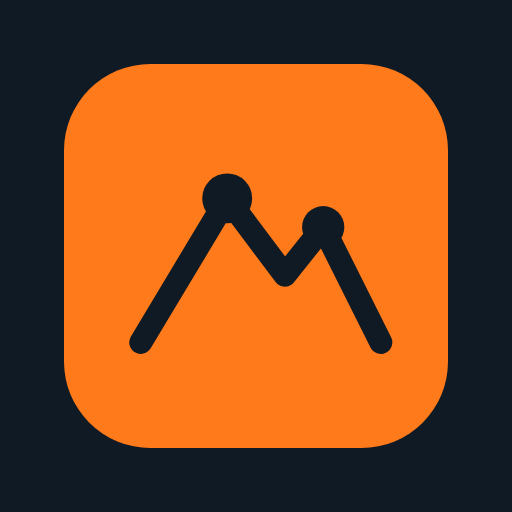
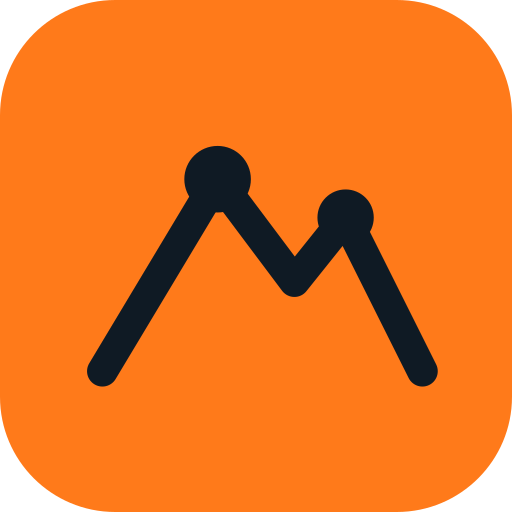
v1.18.0: installable app for CRM and client portal (PWA)
Service worker, offline page, separate portal manifest and icons, maskable icons,
install button in account menu and sign-in pages, iOS Add to Home Screen steps.

Claude-Session: https://claude.ai/code/session_01Hb8aoWgV6dSUUSUCYnNpoE

diff --git a/public/assets/app.js b/public/assets/app.js
@@ -222,3 +222,45 @@ document.querySelectorAll('input[type=file][data-count]').forEach(inp => inp.add
   const msg = inp.closest('form').querySelector('.upmsg');
   if (msg) msg.textContent = inp.files.length ? `${inp.files.length} file${inp.files.length > 1 ? 's' : ''} ready to send` : '';
 }));
+
+// v1.18 installable app: service worker + "Install app" button (Android/Chrome/Edge prompt, iPhone/iPad instructions)
+(() => {
+  if ('serviceWorker' in navigator && (location.protocol === 'https:' || location.hostname === 'localhost' || location.hostname === '127.0.0.1')) {
+    addEventListener('load', () => navigator.serviceWorker.register('/sw.js').catch(() => {}));
+  }
+  const standalone = matchMedia('(display-mode: standalone)').matches || navigator.standalone === true;
+  if (standalone) return; // already running as an installed app
+  const btns = [...document.querySelectorAll('[data-install]')];
+  if (!btns.length) return;
+  const show = () => btns.forEach(b => { b.hidden = false; b.closest('[data-install-wrap]')?.removeAttribute('hidden'); });
+  const ua = navigator.userAgent;
+  const ios = /iPhone|iPad|iPod/.test(ua) || (navigator.platform === 'MacIntel' && navigator.maxTouchPoints > 1);
+  let deferred = null;
+
+  addEventListener('beforeinstallprompt', e => { e.preventDefault(); deferred = e; show(); });
+  addEventListener('appinstalled', () => { deferred = null; btns.forEach(b => { b.hidden = true; b.closest('[data-install-wrap]')?.setAttribute('hidden', ''); }); });
+  if (ios) show();
+
+  const iosHelp = () => {
+    let d = document.getElementById('tl-install-help');
+    if (!d) {
+      d = document.createElement('dialog');
+      d.id = 'tl-install-help'; d.className = 'installdlg';
+      
+      d.innerHTML = `<h3>Add to your Home Screen</h3>
+        <ol><li>Tap the <b>Share</b> button <span aria-hidden="true" class="shareico">⬆</span> (bottom of the screen on iPhone, top right on iPad).</li>
+        <li>Scroll down and tap <b>Add to Home Screen</b>.</li><li>Tap <b>Add</b>. The app opens full screen from its new icon.</li></ol>
+        <p class="muted">Works in Safari. In Chrome on iPhone, the Share button is in the address bar.</p>
+        <form method="dialog"><button class="btn primary">Got it</button></form>`;
+      document.body.appendChild(d);
+    }
+    d.showModal ? d.showModal() : alert('Tap the Share button, then "Add to Home Screen".');
+  };
+
+  btns.forEach(b => b.addEventListener('click', async () => {
+    b.closest('details')?.removeAttribute('open');
+    if (deferred) { deferred.prompt(); await deferred.userChoice.catch(() => {}); deferred = null; return; }
+    if (ios) return iosHelp();
+    alert('Open your browser menu and choose "Install app" or "Add to Home screen".');
+  }));
+})();

diff --git a/public/sw.js b/public/sw.js
@@ -1,0 +1,35 @@
+// TerraLink CRM / client portal service worker.
+// Makes the app installable and keeps static files (CSS, JS, icons, fonts) on the device.
+// Pages and data are NEVER cached: they always come live from the server, so nothing
+// private is left on a shared tablet and nobody sees stale tickets or invoices.
+const CACHE = 'tl-static-1.18.0';
+const OFFLINE = '/offline.html';
+
+self.addEventListener('install', e => {
+  e.waitUntil(caches.open(CACHE).then(c => c.addAll([OFFLINE, '/assets/favicon.svg', '/assets/portal-favicon.svg'])).then(() => self.skipWaiting()));
+});
+
+self.addEventListener('activate', e => {
+  e.waitUntil(caches.keys().then(keys => Promise.all(keys.filter(k => k.startsWith('tl-') && k !== CACHE).map(k => caches.delete(k)))).then(() => self.clients.claim()));
+});
+
+self.addEventListener('fetch', e => {
+  const req = e.request;
+  const url = new URL(req.url);
+  if (url.origin !== location.origin) return;
+
+  // Page loads (incl. form posts): always the network; show the offline page if there's no signal.
+  if (req.mode === 'navigate') {
+    e.respondWith(fetch(req).catch(() => caches.match(OFFLINE)));
+    return;
+  }
+
+  // Versioned static files: cache first, then network (?v= changes on every release).
+  if (req.method === 'GET' && url.pathname.startsWith('/assets/')) {
+    e.respondWith(caches.open(CACHE).then(c => c.match(req).then(hit => hit || fetch(req).then(res => {
+      if (res.ok && res.type === 'basic') c.put(req, res.clone());
+      return res;
+    }))));
+  }
+  // Everything else (files, photos, PDFs, API): straight to the network, untouched.
+});

diff --git a/public/offline.html b/public/offline.html
@@ -1,0 +1,27 @@
+<!doctype html>
+<html lang="en">
+<head>
+<meta charset="utf-8"><meta name="viewport" content="width=device-width, initial-scale=1, viewport-fit=cover"><meta name="theme-color" content="#0F1A24"><meta name="robots" content="noindex">
+<title>No connection · TerraLink</title>
+<style>
+  html,body{margin:0;height:100%;background:#0F1A24;color:#E8EDF2;font:16px/1.5 system-ui,-apple-system,"Segoe UI",Roboto,sans-serif}
+  main{min-height:100%;display:flex;flex-direction:column;align-items:center;justify-content:center;text-align:center;padding:32px 24px calc(32px + env(safe-area-inset-bottom));box-sizing:border-box}
+  img{width:64px;height:64px;margin-bottom:20px}
+  h1{font-size:22px;margin:0 0 8px}
+  p{max-width:360px;margin:0 0 8px;color:#B6C2CE}
+  .b{display:flex;gap:10px;margin-top:20px;flex-wrap:wrap;justify-content:center}
+  button{font:inherit;font-weight:600;border:0;border-radius:10px;padding:12px 22px;cursor:pointer}
+  .go{background:#FF7A1A;color:#0F1A24}.bk{background:#22313F;color:#E8EDF2}
+</style>
+</head>
+<body>
+<main>
+  <img src="/assets/favicon.svg" alt="">
+  <h1>No connection right now</h1>
+  <p>TerraLink needs signal to load this page.</p>
+  <p>If you were saving something, tap <b>Go back</b>. What you typed is usually still there, so you can save it again once you have signal.</p>
+  <div class="b"><button class="bk" type="button" onclick="history.back()">Go back</button><button class="go" type="button" onclick="location.reload()">Try again</button></div>
+</main>
+<script>addEventListener('online', () => location.reload());</script>
+</body>
+</html>

diff --git a/public/assets/app.css b/public/assets/app.css
@@ -354,3 +354,14 @@ table.t{width:100%;border-collapse:collapse;font-size:14px}
 .warr-ok{color:var(--ok)} .warr-soon{color:var(--warn);font-weight:600} .warr-out{color:var(--muted)}
 .pay{white-space:pre-wrap}
 .sidenav em.cw{background:#3D8BFD;color:#fff}
+/* v1.18 installable app */
+[data-install][hidden],[data-install-wrap][hidden]{display:none!important}
+.install-hint{margin:18px 0 0;text-align:center}
+.install-hint .linkbtn{color:var(--ink);font-weight:600;text-decoration:underline;text-underline-offset:3px}
+.install-hint .linkbtn:hover{color:var(--orange)}
+.installdlg{border:0;border-radius:var(--r);background:var(--surface);color:var(--ink);max-width:380px;padding:22px;box-shadow:0 12px 40px rgba(0,0,0,.35)}
+.installdlg::backdrop{background:rgba(15,26,36,.6)}
+.installdlg h3{margin:0 0 10px}
+.installdlg ol{padding-left:20px;margin:0 0 10px}.installdlg li{margin:6px 0}
+.installdlg form{margin:14px 0 0;text-align:right}
+.installdlg .shareico{display:inline-block;border:1.5px solid currentColor;border-radius:4px;padding:0 4px;font-size:12px}

diff --git a/views/portal/_authshell.php b/views/portal/_authshell.php
@@ -2,10 +2,10 @@
 <!doctype html>
 <html lang="en">
 <head>
-<meta charset="utf-8"><meta name="viewport" content="width=device-width, initial-scale=1"><meta name="theme-color" content="#0F1A24"><meta name="robots" content="noindex">
+<meta charset="utf-8"><meta name="viewport" content="width=device-width, initial-scale=1"><meta name="theme-color" content="#0F1A24"><meta name="robots" content="noindex"><meta name="apple-mobile-web-app-capable" content="yes"><meta name="mobile-web-app-capable" content="yes"><meta name="apple-mobile-web-app-status-bar-style" content="black"><meta name="apple-mobile-web-app-title" content="TL Portal">
 <title><?= h($title ?? 'Sign in') ?> · <?= h(setting('company_name', 'TerraLink Systems')) ?> client portal</title>
 <script>try{var t=localStorage.getItem('tl-theme')||'auto';if(t==='dark'||(t==='auto'&&matchMedia('(prefers-color-scheme: dark)').matches))document.documentElement.dataset.theme='dark'}catch(e){}</script>
-<link rel="icon" href="/assets/favicon.svg" type="image/svg+xml"><link rel="apple-touch-icon" href="/assets/apple-touch-icon.png">
+<link rel="icon" href="/assets/portal-favicon.svg" type="image/svg+xml"><link rel="apple-touch-icon" href="/assets/portal-apple-touch-icon.png"><link rel="manifest" href="/portal.webmanifest">
 <link rel="stylesheet" href="/assets/fonts.css?v=<?= APP_VERSION ?>"><link rel="stylesheet" href="/assets/app.css?v=<?= APP_VERSION ?>">
 </head>
 <body>
@@ -15,7 +15,10 @@
     <div><h2>Your IT, <em>in one place</em>.</h2><p>Open and follow support tickets, check your equipment and service visits, and see quotes and invoices, whenever it suits you.</p></div>
     <div class="ft">Need help now? <?= h(setting('company_phone', '778-648-2400')) ?> · <?= h(setting('company_email', 'info@terralinksystems.com')) ?></div>
   </aside>
-  <main class="formside"><div class="box"><?= $inner ?></div></main>
+  <main class="formside"><div class="box"><?= $inner ?>
+  <p class="install-hint" data-install-wrap hidden><button type="button" class="linkbtn" data-install>Install this app on your phone or tablet</button></p>
+  </div></main>
 </div>
+<script src="/assets/app.js?v=<?= APP_VERSION ?>" defer></script>
 </body>
 </html>

diff --git a/views/portal/layout.php b/views/portal/layout.php
@@ -14,11 +14,14 @@ $coName = setting('company_name', 'TerraLink Systems');
 <meta name="viewport" content="width=device-width, initial-scale=1, viewport-fit=cover">
 <meta name="theme-color" content="#0F1A24">
 <meta name="robots" content="noindex">
+<meta name="apple-mobile-web-app-capable" content="yes"><meta name="mobile-web-app-capable" content="yes"><meta name="apple-mobile-web-app-status-bar-style" content="black">
+<meta name="apple-mobile-web-app-title" content="TL Portal">
 <meta name="csrf" content="<?= h(csrf_token()) ?>">
 <title><?= h($title ?? 'Client portal') ?> · <?= h($coName) ?> client portal</title>
 <script>try{var t=localStorage.getItem('tl-theme')||'auto';if(t==='dark'||(t==='auto'&&matchMedia('(prefers-color-scheme: dark)').matches))document.documentElement.dataset.theme='dark'}catch(e){}</script>
-<link rel="icon" href="/assets/favicon.svg" type="image/svg+xml">
-<link rel="apple-touch-icon" href="/assets/apple-touch-icon.png">
+<link rel="icon" href="/assets/portal-favicon.svg" type="image/svg+xml">
+<link rel="apple-touch-icon" href="/assets/portal-apple-touch-icon.png">
+<link rel="manifest" href="/portal.webmanifest">
 <link rel="stylesheet" href="/assets/fonts.css?v=<?= APP_VERSION ?>">
 <link rel="stylesheet" href="/assets/app.css?v=<?= APP_VERSION ?>">
 </head>
@@ -32,6 +35,7 @@ $coName = setting('company_name', 'TerraLink Systems');
       <div class="who"><b><?= h($pu['name']) ?></b><small><?= h($pu['company']) ?></small></div>
       <a href="/account">My account</a>
       <?php if (portal_can('is_admin')): ?><a href="/users">Portal users</a><?php endif; ?>
+      <button type="button" data-install hidden>Install app on this device</button>
       <div class="themepick" role="group" aria-label="Theme"><button type="button" data-theme-set="light">Light</button><button type="button" data-theme-set="auto">Auto</button><button type="button" data-theme-set="dark">Dark</button></div>
       <form method="post" action="/logout"><?= csrf_field() ?><button type="submit">Sign out</button></form>
     </div>

diff --git a/views/layout.php b/views/layout.php
@@ -17,7 +17,7 @@ $icon = fn(string $n) => '<svg class="i" aria-hidden="true"><use href="/assets/i
 <meta name="viewport" content="width=device-width, initial-scale=1, viewport-fit=cover">
 <meta name="theme-color" content="#0F1A24">
 <meta name="csrf" content="<?= h(csrf_token()) ?>">
-<meta name="apple-mobile-web-app-capable" content="yes">
+<meta name="apple-mobile-web-app-capable" content="yes"><meta name="mobile-web-app-capable" content="yes"><meta name="apple-mobile-web-app-status-bar-style" content="black">
 <meta name="apple-mobile-web-app-title" content="TerraLink">
 <title><?= h($title ?? 'CRM') ?> · TerraLink CRM</title>
 <script>try{var t=localStorage.getItem('tl-theme')||'auto';if(t==='dark'||(t==='auto'&&matchMedia('(prefers-color-scheme: dark)').matches))document.documentElement.dataset.theme='dark'}catch(e){}</script>
@@ -40,6 +40,7 @@ $icon = fn(string $n) => '<svg class="i" aria-hidden="true"><use href="/assets/i
       <a href="/account">My account</a>
       <a href="/account/2fa">Two-step sign-in</a>
       <?php if (is_role('admin')): $errN = (int)val('SELECT COUNT(*) FROM app_errors WHERE last_at > NOW() - INTERVAL 7 DAY'); ?><a href="/users">Users</a><a href="/settings">Settings</a><a href="/errors">Error log<?= $errN ? ' (' . $errN . ')' : '' ?></a><?php if (function_exists('h_data')): ?><a href="/data">Import &amp; export</a><?php endif; ?><?php endif; ?>
+      <button type="button" data-install hidden>Install app on this device</button>
       <div class="themepick" role="group" aria-label="Theme"><button type="button" data-theme-set="light">Light</button><button type="button" data-theme-set="auto">Auto</button><button type="button" data-theme-set="dark">Dark</button></div>
       <form method="post" action="/logout"><?= csrf_field() ?><button type="submit">Sign out</button></form>
     </div>

diff --git a/views/_authshell.php b/views/_authshell.php
@@ -2,7 +2,7 @@
 <!doctype html>
 <html lang="en">
 <head>
-<meta charset="utf-8"><meta name="viewport" content="width=device-width, initial-scale=1"><meta name="theme-color" content="#0F1A24"><meta name="robots" content="noindex">
+<meta charset="utf-8"><meta name="viewport" content="width=device-width, initial-scale=1"><meta name="theme-color" content="#0F1A24"><meta name="robots" content="noindex"><meta name="apple-mobile-web-app-capable" content="yes"><meta name="mobile-web-app-capable" content="yes"><meta name="apple-mobile-web-app-status-bar-style" content="black"><meta name="apple-mobile-web-app-title" content="TerraLink">
 <title><?= h($title ?? 'Sign in') ?> · TerraLink CRM</title>
 <script>try{var t=localStorage.getItem('tl-theme')||'auto';if(t==='dark'||(t==='auto'&&matchMedia('(prefers-color-scheme: dark)').matches))document.documentElement.dataset.theme='dark'}catch(e){}</script>
 <link rel="icon" href="/assets/favicon.svg" type="image/svg+xml"><link rel="apple-touch-icon" href="/assets/apple-touch-icon.png"><link rel="manifest" href="/manifest.webmanifest">
@@ -15,7 +15,10 @@
     <div><h2>Every client, site and <em>serial number</em> in one place.</h2><p>Leads from the website, installed gear in the bush, tickets and quotes. Built for Northern BC.</p></div>
     <div class="ft">Houston, BC · <?= h(setting('company_phone', '778-648-2400')) ?></div>
   </aside>
-  <main class="formside"><div class="box"><?= $inner ?></div></main>
+  <main class="formside"><div class="box"><?= $inner ?>
+  <p class="install-hint" data-install-wrap hidden><button type="button" class="linkbtn" data-install>Install this app on your phone or tablet</button></p>
+  </div></main>
 </div>
+<script src="/assets/app.js?v=<?= APP_VERSION ?>" defer></script>
 </body>
 </html>

diff --git a/src/bootstrap.php b/src/bootstrap.php
@@ -1,7 +1,7 @@
 <?php
 declare(strict_types=1);
 
-const APP_VERSION = '1.17.1';
+const APP_VERSION = '1.18.0';
 const SCHEMA_VERSION = '1.17.0';
 const APP_ROOT = __DIR__ . '/..';
 

diff --git a/CHANGELOG.md b/CHANGELOG.md
@@ -1,5 +1,12 @@
 # TerraLink CRM changelog
 
+## 1.18.0 — 2026-11-22
+- Installable app: the CRM and the client portal can be installed on phones and tablets (Android, iPhone/iPad) and desktops, and open full screen from their own icon.
+- Service worker (`/sw.js`): keeps CSS/JS/icons on the device for faster loads; pages and data are never cached. Offline page (`/offline.html`) with Go back / Try again when there's no signal.
+- Separate portal app (`/portal.webmanifest`, "TerraLink Client Portal", dark icon) so the two apps look different on a home screen. Proper maskable icons for Android.
+- "Install app on this device" in the account menu and on the sign-in pages; iPhone/iPad get Add to Home Screen steps.
+- App shortcuts (long-press the icon): My day, Tickets, New ticket (CRM); Open a ticket, My tickets (portal).
+
 ## 1.17.1 — 2026-11-19
 - Fix: creating the 2FA key file used link(), which is disabled on Hostinger shared hosting and broke every page after 1.17.0. Now uses an exclusive create, and a key problem can never block the site.
 
